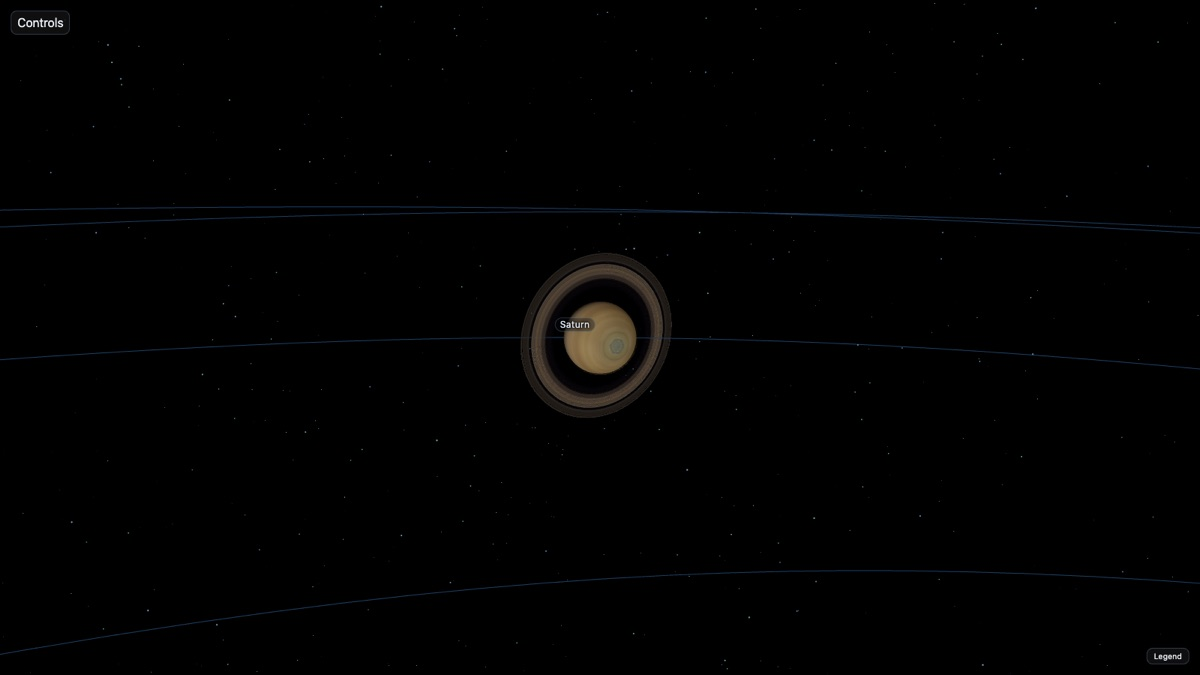
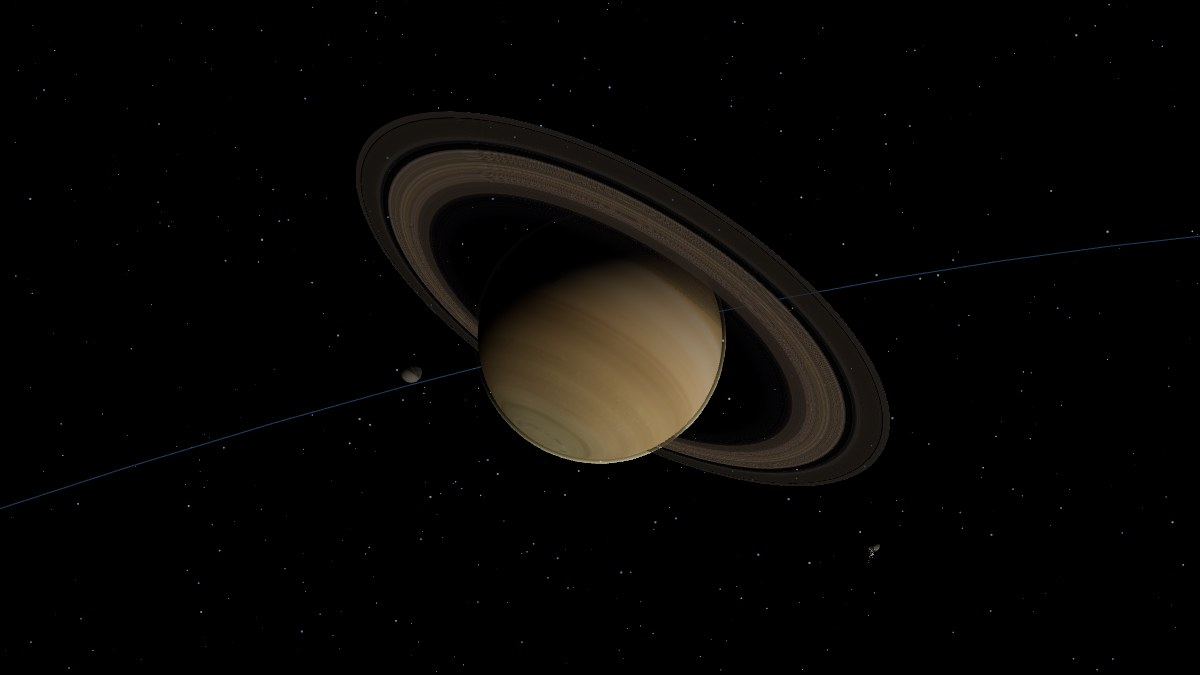
docs: 重截全部截圖 (涵蓋新功能) + 修正 README 兩處不實描述
截圖 (原 4 張為 Oct 3 產物, 早於冥王星/小行星帶/TRAPPIST-1/軸指示/光變曲線):
- 重截 overview / saturn / mars / lensing
- 新增 belt (俯視小行星帶, 柯克伍德空隙) / trappist (TRAPPIST-1 共振鏈) /
  pluto (冥王星–凱龍雙體, 質心標記落在冥王星本體之外) /
  lightcurve (蟲洞微透鏡光變曲線面板)
- 全部以數值驗證 (不靠目視): 亮度直方圖、連通塊分析、色溫、曲線雙色軸。
  pluto 用「凍結渲染迴圈 + 自動構圖迭代」確保量測座標與截圖同一幀
  (否則 damping 與 SwiftShader 4fps 會讓相機在量測後漂移, 座標對不上)
- lensing 重截比原圖更好: 飽和像素 19.2% -> 1.9% (原圖中心過曝), 結構細節相當

修正 README 兩處與程式碼不符的描述 (誠實性):
1. 黑洞「shadow 是不取樣的死區」-> 錯。LensingShader 在 dist<bhRadius 內
   是【pass through 照常取樣】(程式碼與註解都寫明), 黑盤來自場景中的
   3D 純黑視界球 —— 這樣遮蔽才有正確深度, 不會咬掉前方的近側吸積盤。
2. 「黑洞中心本質上不產生取樣」-> 同錯, 且與第 1 點矛盾。guard 的真正理由
   是光子環以 bhUV 為圓心畫固定半徑, 沿用上一幀的 bhUV 會讓光子環浮在
   空處 (那段回歸測試的描述本身是對的, 保留)。
3. lensing 圖的 alt 文字原寫「the shadow, the photon ring」—— 掃描 3°~79°
   仰角實測, 吸積盤的 additive 輝光在各種角度都蓋過中心, 畫面上看不到暗陰影
   => alt 改為如實描述 (透鏡化的吸積盤 + HDR bloom + 星空扭曲)。

README 也補上: 圖片表格新增 belt/trappist 與 pluto/lightcurve 兩列;
alt 文字「eight Keplerian orbits」-> 「nine」

diff --git a/README.md b/README.md
@@ -13,7 +13,7 @@ No build step, no framework, no bundler — three source files, served as static
 assets.
 
 <p align="center">
-  <img src="docs/screenshots/overview.jpg" alt="Full system: eight Keplerian orbits around a bloomed Sun, with the black hole at right" width="900">
+  <img src="docs/screenshots/overview.jpg" alt="Full system: nine Keplerian orbits around a bloomed Sun, the asteroid belt, and the black hole at right" width="900">
 </p>
 
 Live features: HDR bloom · point-light shadow casting · Earth's cloud layer,
@@ -22,12 +22,21 @@ ocean specular, night-side city lights and **lightning** · Saturn's rings with
 galilean/Saturnian moons · a **Pluto–Charon binary** orbiting a shared barycenter
 · a **main-belt + Kuiper-belt GPU particle field** with real Kirkwood gaps ·
 **Jupiter differential rotation** · **two-wavelength Rayleigh** atmospheres ·
-**axis-tilt indicators** · an honest **8k fallback badge** · click-to-fly-and-track
-· zh-TW / English UI · switchable **TRAPPIST-1** system.
+**axis-tilt indicators** · an honest **8k fallback badge** · an exact
+**wormhole microlensing light curve** · click-to-fly-and-track · zh-TW / English
+UI · switchable **TRAPPIST-1** system.
+
+| The main asteroid belt, seen from above: Kirkwood gaps at Jupiter's resonances | TRAPPIST-1: seven planets on a real resonance chain around an M8V red dwarf |
+|---|---|
+| <img src="docs/screenshots/belt.jpg" alt="Overhead view of the asteroid belt: a broad ring of particles with depleted gaps" width="420"> | <img src="docs/screenshots/trappist.jpg" alt="TRAPPIST-1: a dim orange-red dwarf star with seven orbiting planets" width="420"> |
 
 | Saturn, seen near pole-on: ring system and polar region | Mars, terminator crossing the disc |
 |---|---|
 | <img src="docs/screenshots/saturn.jpg" alt="Saturn seen from near its pole, ring system forming concentric circles around the disc" width="420"> | <img src="docs/screenshots/mars.jpg" alt="Mars, lit crescent falling off into night side" width="420"> |
+
+| The Pluto–Charon binary: both bodies orbit a barycenter outside Pluto | Wormhole microlensing: the star brightens, then **dims** below baseline |
+|---|---|
+| <img src="docs/screenshots/pluto.jpg" alt="Pluto and Charon separated by their mutual barycenter" width="420"> | <img src="docs/screenshots/lightcurve.jpg" alt="Control panel with the wormhole light curve plotted against time" width="420"> |
 
 ---
 
@@ -162,7 +171,10 @@ The shader displaces screen-space UVs as a function of the impact parameter
 relative to the black hole's projected position, which produces the three
 signatures you actually expect:
 
-- **the shadow** — a true dead zone where nothing is sampled;
+- **the shadow** — the pass deliberately *passes through* inside `bhRadius` and
+  samples normally there; the black disc comes from a 3D pure-black horizon
+  sphere in the scene, so occlusion has correct depth and never eats the near
+  side of the disk in front of it;
 - **the photon ring** — a narrow, bright Gaussian ring at ≈1.06× the apparent
   horizon radius, from light that skimmed the photon sphere;
 - **the lensed far side of the disk** — the back of the accretion disk is
@@ -175,15 +187,15 @@ that happen to fall behind it, not just the disk.
 The black hole's screen position and apparent radius are re-derived each frame
 by projecting its world position, and the strength uniform is forced to zero
 unless the projection **succeeded this frame**. That guard is not pedantry: the
-center of a black hole is, by definition, a region that produces no sample, so
-reusing last frame's `bhUV` when the current projection fails (behind the
-camera, or off-screen) leaves a photon ring floating over empty space. That
-regression was reproduced and confirmed before the guard went in — hence the
-explicit "only if projected this frame" condition rather than a plain smooth
-ramp.
+pass draws the photon ring at a fixed radius around `bhUV`, so reusing last
+frame's `bhUV` when the current projection fails (behind the camera, or
+off-screen) leaves a photon ring floating over empty space where no hole is.
+That regression was reproduced and confirmed before the guard went in — hence
+the explicit "only if projected this frame" condition rather than a plain
+smooth ramp.
 
 <p align="center">
-  <img src="docs/screenshots/lensing.jpg" alt="Approaching the black hole: the shadow, the photon ring, and the accretion disk lensed over the top" width="900">
+  <img src="docs/screenshots/lensing.jpg" alt="Approaching the black hole: the lensed accretion disk and its HDR bloom, with the screen-space deflection warping the starfield behind it" width="900">
 </p>
 
 The composer renders into its own `WebGLRenderTarget` with `samples: 4`,
